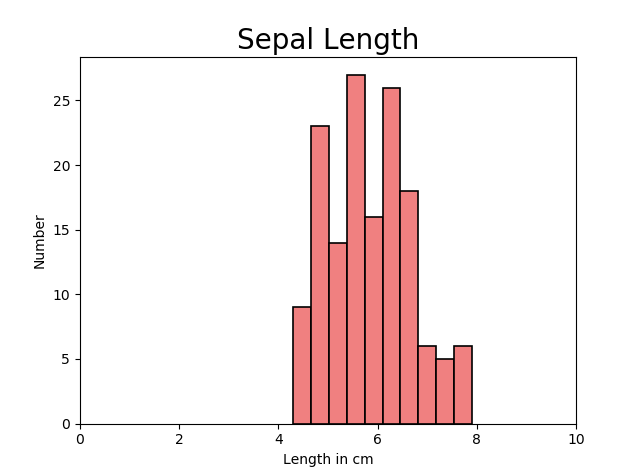
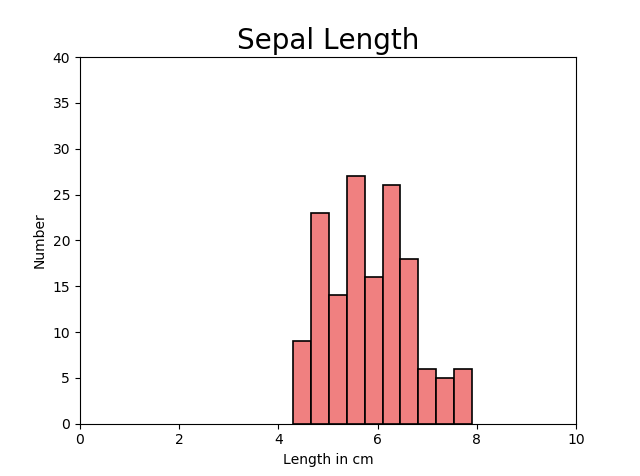
Update

diff --git a/scatter2.py b/scatter2.py
@@ -4,6 +4,7 @@
 #For this task, I copied and pasted my iris data into 3 seperate csv files, one for each species.
 #I hope to find a more efficient way of performing this task in the future. 
 #UPDATED (20/04/2018): To better compare across species I plotted all 3 subplots on 1 coordinate graph.
+
 import numpy as np
 import matplotlib.pyplot as pl
 
@@ -30,6 +31,9 @@ vers4= data[:,3]
 #https://matplotlib.org/examples/pylab_examples/subplots_demo.html
 
 f, ax=pl.subplots(1)
+f.legend(loc=1, fontsize='small', shadow=True)
+#Refered to https://matplotlib.org/api/legend_api.html
+
 ax.scatter(set1,set2, color='r', s =20, label='Iris-Setosa')
 ax.scatter(virg1,virg2, color='g', s = 20, label='Iris-Virginica')
 ax.scatter(vers1,vers2, color='b', s=20, label='Iris-Versicolor')
@@ -37,7 +41,7 @@ ax.set_title('Sepal Length vs. Sepal Width')
 f.text(0.5, 0.02, 'Sepal Length', ha='center')
 f.text(0.03, 0.5, 'Sepal Width', va='center', rotation='vertical')
 #Refered to https://stackoverflow.com/questions/16150819/common-xlabel-ylabel-for-matplotlib-subplots
-f.legend(loc=1, fontsize='small', shadow=True)
+
 #Refered to https://matplotlib.org/api/legend_api.html
 pl.show()
 
@@ -48,7 +52,7 @@ ax.scatter(vers1,vers3, color='b', s=20, label='Iris-Versicolor')
 ax.set_title('Sepal Length vs. Petal Length')
 f.text(0.5, 0.02, 'Sepal Length', ha='center')
 f.text(0.03, 0.5, 'Petal Length', va='center', rotation='vertical')
-f.legend(loc=1, fontsize='small', shadow=True)
+
 pl.show()
 
 f, ax=pl.subplots(1)
@@ -58,7 +62,7 @@ ax.scatter(vers1,vers4, color='b', s=20, label='Iris-Versicolor')
 ax.set_title('Sepal Length vs. Petal Width')
 f.text(0.5, 0.02, 'Sepal Length', ha='center')
 f.text(0.03, 0.5, 'Petal Width', va='center', rotation='vertical')
-f.legend(loc=1, fontsize='small', shadow=True)
+
 pl.show()
 
 f, ax=pl.subplots(1)
@@ -68,7 +72,7 @@ ax.scatter(vers3,vers4, color='b', s=20, label='Iris-Versicolor')
 ax.set_title('Petal Length vs. Petal Width')
 f.text(0.5, 0.02, 'Petal Length', ha='center')
 f.text(0.03, 0.5, 'Petal Width', va='center', rotation='vertical')
-f.legend(loc=1, fontsize='small', shadow=True)
+
 
 pl.show()
 

diff --git a/hist.py b/hist.py
@@ -9,6 +9,8 @@ seccol =  data[:,1]
 thirdcol= data[:,2]
 fourcol= data[:,3]
 
+
+
 #Graphing each measurement as a histogram to get an indication of their distribution
 pl.hist(data[:,0], edgecolor='k', linewidth=1.2, color ='lightcoral')
 #Refered to this webpage to get a border line around the bars of the histogram.
@@ -44,6 +46,7 @@ pl.title('Sepal Length',  fontsize = '20')
 pl.xlabel('Length in cm')
 pl.ylabel('Number')
 pl.xticks([0,2, 4,6, 8, 10])
+pl.yticks([0, 5, 10, 15, 20, 25, 30, 35, 40])
 pl.show()
 
 
@@ -52,6 +55,7 @@ pl.title('Sepal Width',  fontsize = '20')
 pl.xlabel('Length in cm')
 pl.ylabel('Number')
 pl.xticks([0,2, 4,6, 8, 10])
+pl.yticks([0, 5, 10, 15, 20, 25, 30, 35, 40])
 pl.show()
 
 pl.hist(data[:,2], edgecolor='k', linewidth=1.2, color ='lightgreen')
@@ -59,6 +63,7 @@ pl.title('Petal Length',  fontsize = '20')
 pl.xlabel('Length in cm')
 pl.ylabel('Number')
 pl.xticks([0,2, 4,6, 8, 10])
+pl.yticks([0, 5, 10, 15, 20, 25, 30, 35, 40])
 pl.show()
 
 pl.hist(data[:,3], edgecolor='k', linewidth=1.2, color ='lightskyblue')
@@ -66,4 +71,5 @@ pl.title('Petal Width',  fontsize = '20')
 pl.xlabel('Length in cm')
 pl.ylabel('Number')
 pl.xticks([0,2, 4,6, 8, 10])
+pl.yticks([0, 5, 10, 15, 20, 25, 30, 35, 40])
 pl.show()

diff --git a/README.md b/README.md
@@ -11,9 +11,9 @@ In each sample, four measurements were taken; sepal length, sepal width, petal l
 
 My aim in analyzing the Iris Dataset is to determine if there is any relationship between the four different measurements and the three different species. I am looking for nice patterns that may indicate a relationship between variables, or distinguish between species. 
 
-I intend to calculate various measures of central tendency and spread within the four data sets: sepal length, sepal width, petal length and petal width. I also plan to compare pairs of measurements on scatter diagrams to determine if there is any relationship between them. Calculating the correlation coefficient would give me a definitive answer without a graphical representation. However I hope to examine the measurements by species, and get a better understanding of how the relationship between variables differs, or not, across species. This comparison would be best done on a scatter diagram.  
+I intend to calculate various measures of central tendency and spread within the four data sets: sepal length, sepal width, petal length and petal width. I also plan to compare pairs of measurements on scatter diagrams to determine if there is any relationship between them. Calculating the correlation coefficient would give me a definitive answer without a graphical representation. However I hope to get a better understanding of how the relationship between variables differs, or not, across species. This comparison would be best done on scatter diagrams.  
 
-As this is my first statistical analysis project, I did not have any conrete goals in mind, beyond determining correlation. As I worked my way through this project, I went on several tangents that gave me a better understanding of the limitations of my initial plan. 
+As this is my first statistical analysis project, I did not have any concrete goals in mind, beyond determining correlation. As I worked my way through this project, I went on several tangents that gave me a better understanding of the limitations of my initial plan. 
 
 **Tangents**
 
@@ -103,19 +103,23 @@ This program looks at the relationship between the three different species, grap
  <tr>
   <th>Sepal Length vs. Sepal Width</th>
    <td><img src='img/scatter1.png'></td>
-   <td><img src='img/updtsubplot1.png'></td></tr>
+   <td><img src='img/updtsubplot1.png'></td>
+   <td>Correlation Co=efficient: -0.1094</td></tr>
  <tr>
-  <th> </th>
-   <td></td>
-   <td></td></tr>
+  <th>Petal Length vs.Petal Width</th>
+   <td><img src='img/scatter2.png'></td>
+   <td><img src='img/updtsubplot2.png'></td>
+    <td>Correlation Co=efficient: 0.9628</td></tr>
  <tr>
-  <th> </th>
+  <th>Sepal Width vs. Petal Width</th>
+   <td><img src='img/scatter4.png'></td>
    <td></td>
-   <td></td></tr>
+   <td>Correlation Co=efficient: 0.8718</td></tr>
  <tr>
-  <th> </th>
-   <td></td>
-   <td></td></tr>
+  <th>Sepal Length vs. Petal Length </th>
+   <td><img src='img/scatter3.png'></td>
+   <td><img src='img/updtsubplot3.png'></td><td> 
+   <td>Correlation Co=efficient: -0.3565</td></tr>
  </table>
  
 ## References
